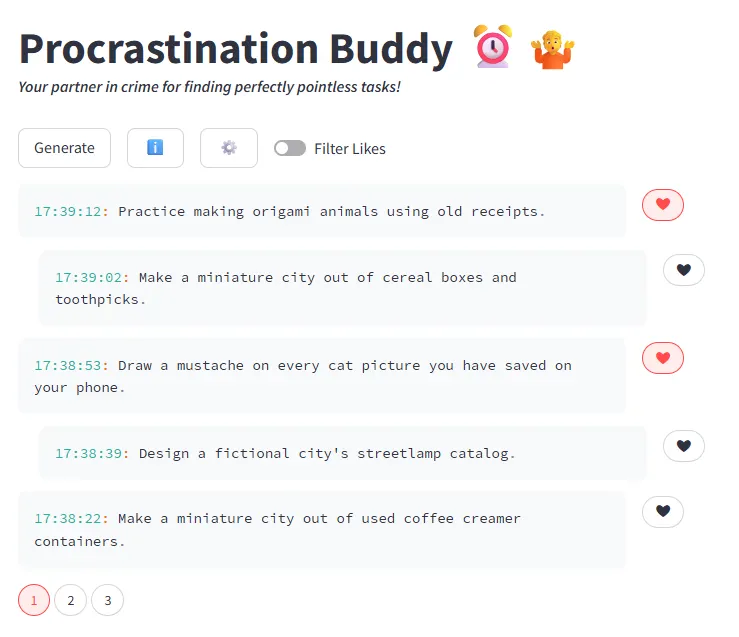
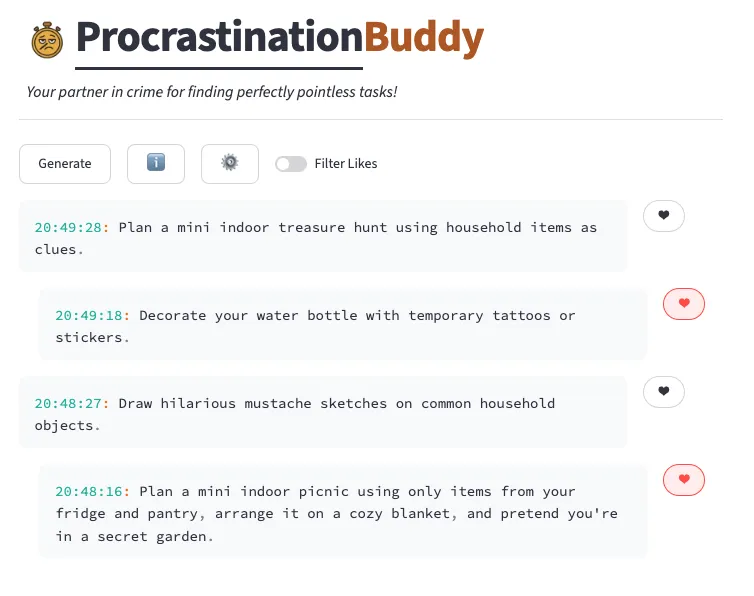
Refresh ProcrastinationBuddy screenshots, add model download shot
New screenshots replace the old ones (converted to WebP for size), and a
new screenshot explains picking an Ollama model and auto-downloading it.

diff --git a/web-buddy/src/app/tools/procrastinationbuddy/client.tsx b/web-buddy/src/app/tools/procrastinationbuddy/client.tsx
@@ -21,6 +21,11 @@ const screenshots: ToolScreenshot[] = [
     text: "Play around with switches and sliders. Nothing urgent, nothing life changing, just something to tinker with while avoiding the real stuff.",
   },
   {
+    src: "download-new-model.webp",
+    alt: "Model Selection",
+    text: "Pick any Ollama model to generate your tasks, right down to the exact tag. Don't have it locally yet? ProcrastinationBuddy pulls it for you and shows a live download progress bar, the most productive-looking thing you'll do all day.",
+  },
+  {
     src: "help-light.webp",
     alt: "Help",
     text: "Explore the help section to feel like you are making progress. It may not solve anything, but it feels like a step in the right direction.",
